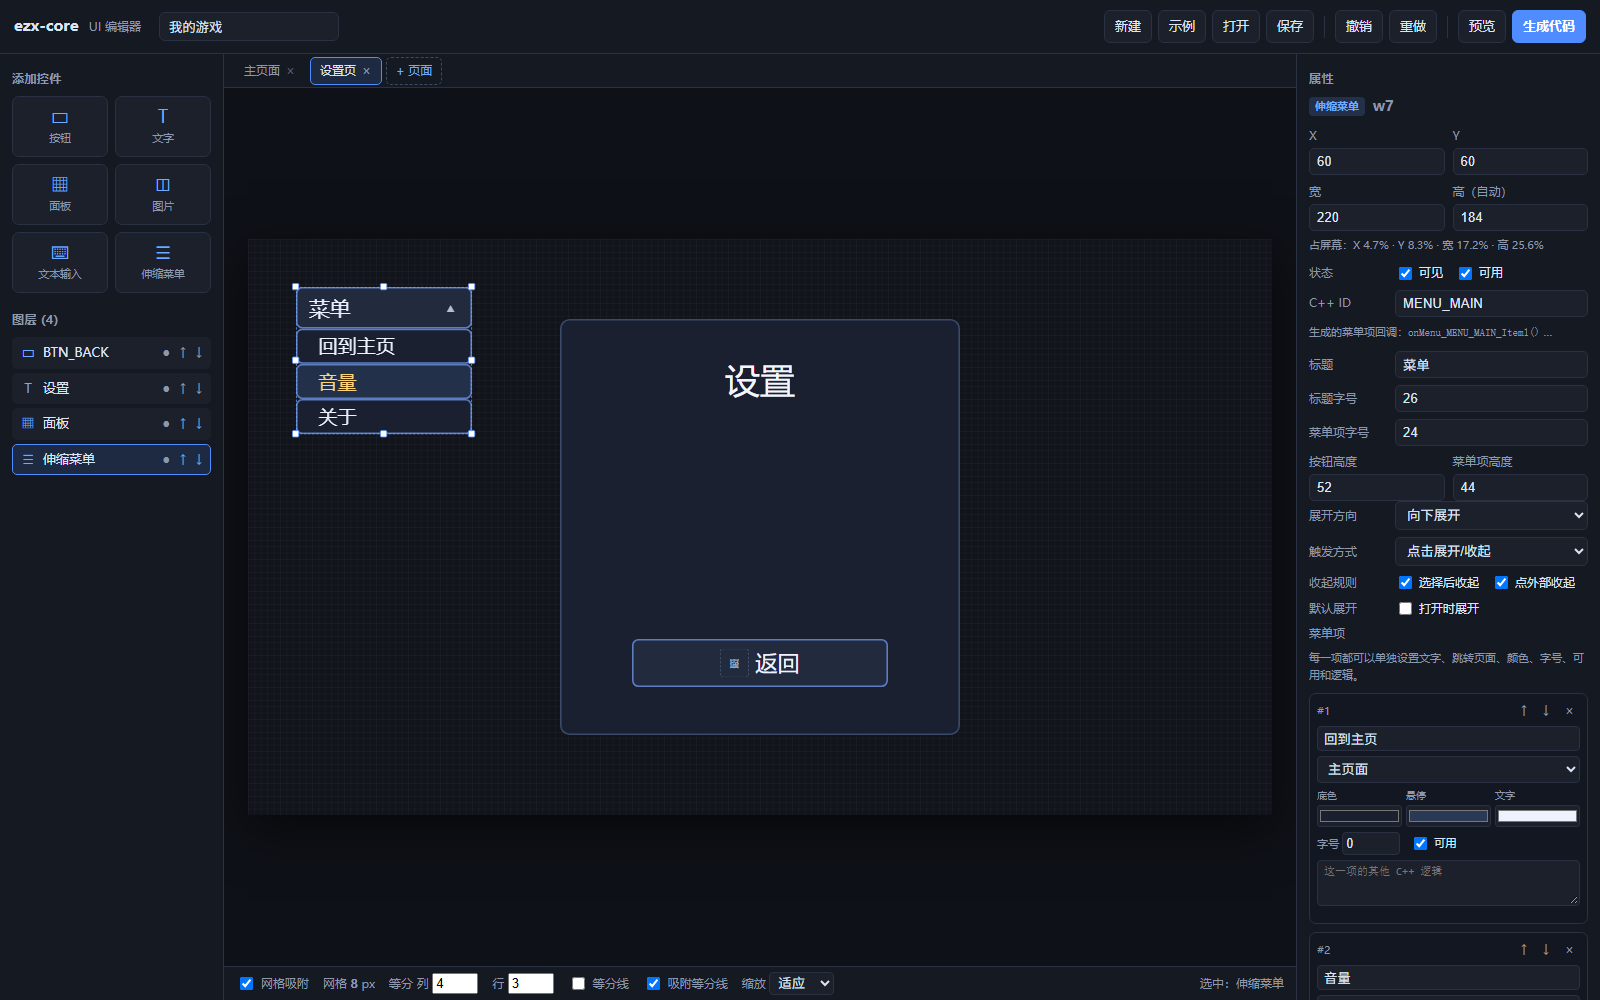
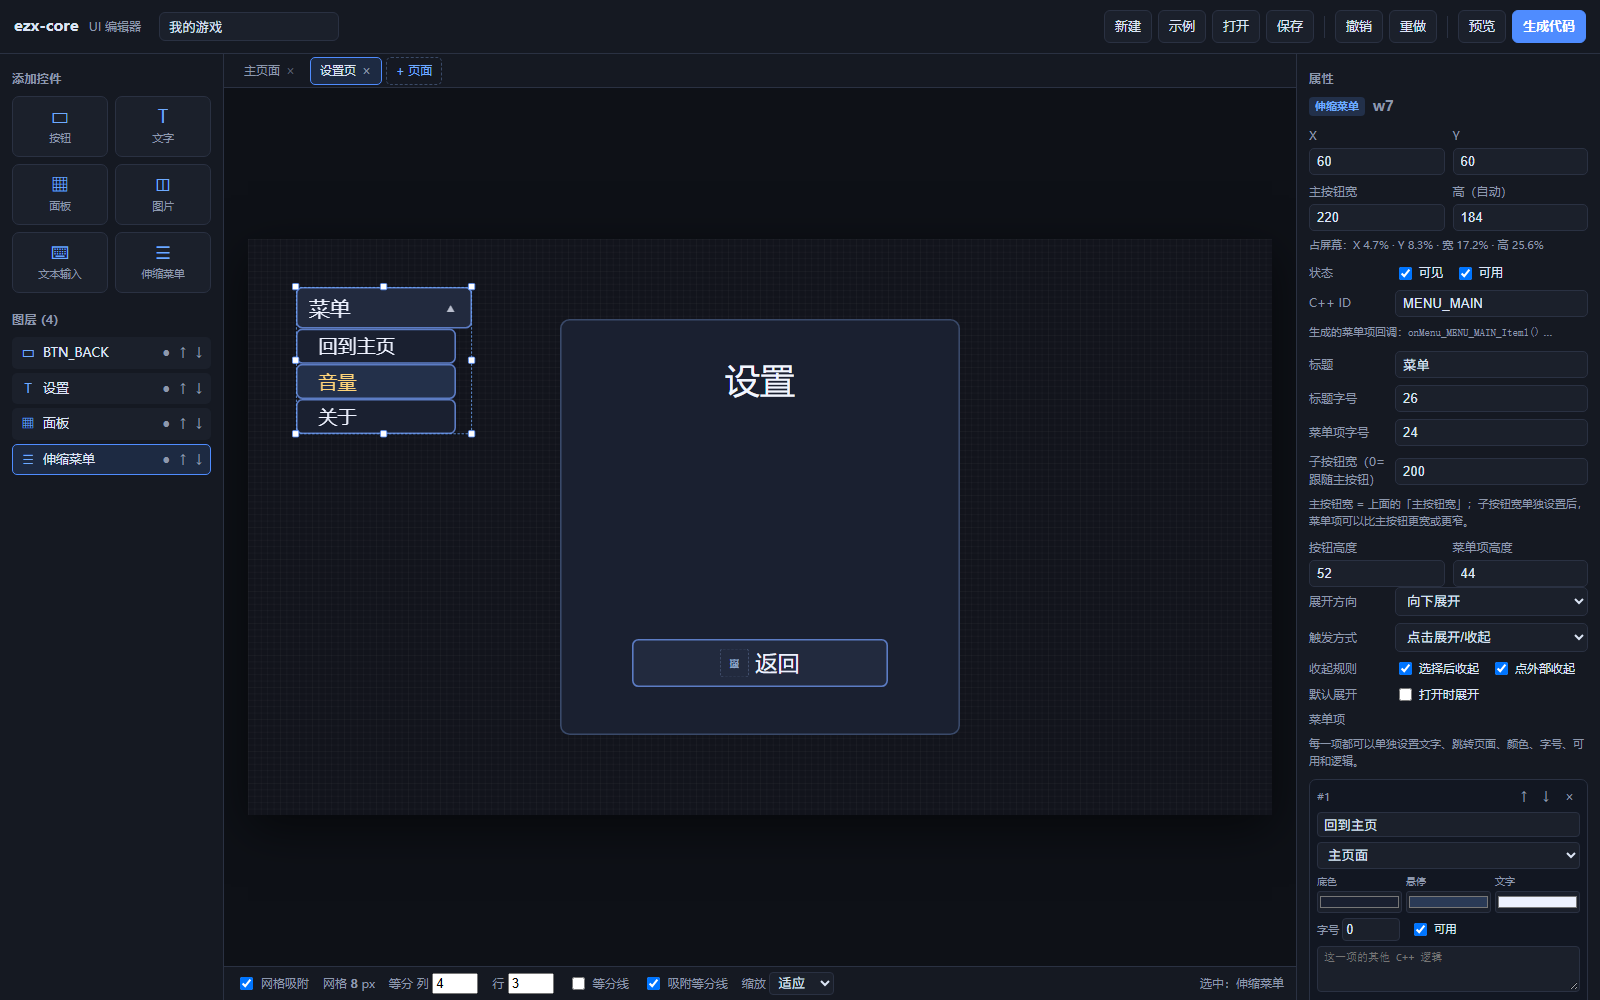
UI editor: fix property binding and separate menu item width

diff --git a/editor/ui_editor.html b/editor/ui_editor.html
@@ -470,6 +470,7 @@ function defaults(type) {
   });
   if (type === 'menu') return Object.assign(base, {
     w: 280, h: 200, text: '菜单', fontSize: 26,
+    itemWidth: 0,
     headerHeight: 52, itemHeight: 44,
     itemFontSize: 24,
     items: [
@@ -543,6 +544,7 @@ function normalizeWidgets(list) {
       });
       w.headerHeight = clamp(Math.round(num(w.headerHeight, 52)), 24, 200);
       w.itemHeight = clamp(Math.round(num(w.itemHeight, 44)), 20, 160);
+      w.itemWidth = clamp(Math.round(num(w.itemWidth, 0)), 0, 1600);
       w.expandDir = ['down', 'up', 'left', 'right', 'fan'].includes(w.expandDir) ? w.expandDir : 'down';
       w.trigger = w.trigger === 'hover' ? 'hover' : 'click';
       w.closeOnSelect = w.closeOnSelect !== false;
@@ -618,7 +620,7 @@ function sampleProject() {
       {
         key: 'p2', id: 'SETTINGS', name: '设置页',
         widgets: [
-          { type: 'menu', id: 'MENU_MAIN', x: 60, y: 60, w: 220, text: '菜单', defaultOpen: false, items: [
+          { type: 'menu', id: 'MENU_MAIN', x: 60, y: 60, w: 220, itemWidth: 200, text: '菜单', defaultOpen: false, items: [
             { text: '回到主页', target: 'p1' },
             { text: '音量', itemBg: '#23304a', textColor: '#ffd479' },
             { text: '关于' }
@@ -1061,12 +1063,12 @@ function renderStage() {
         item.className = 'menu-item';
         item.dataset.menuPart = 'item';
         item.dataset.index = i;
+        item.style.width = menuItemWidth(w) + 'px';
         if (!vertical) {
           const pos = menuItemPos(w, i);
           item.style.position = 'absolute';
           item.style.left = (pos.x - w.x) + 'px';
           item.style.top = (pos.y - w.y) + 'px';
-          item.style.width = w.w + 'px';
         }
         item.style.height = (w.itemHeight || 44) + 'px';
         item.style.background = it.itemBg || w.itemBg || '#1a2030';
@@ -1350,7 +1352,7 @@ function renderProps() {
   html += `<div class="row2">
       ${numberField('X', 'x', w.x)}
       ${numberField('Y', 'y', w.y)}
-      ${numberField('宽', 'w', w.w, 8)}
+      ${w.type === 'menu' ? numberField('主按钮宽', 'w', w.w, 8) : numberField('宽', 'w', w.w, 8)}
       ${w.type === 'menu'
         ? `<div class="field"><label>高（自动）</label><input type="number" value="${w.h}" disabled></div>`
         : numberField('高', 'h', w.h, 8)}
@@ -1452,6 +1454,8 @@ function renderProps() {
     html += inputField('标题', 'text', w.text);
     html += numberField('标题字号', 'fontSize', w.fontSize, 8, 200);
     html += numberField('菜单项字号', 'itemFontSize', w.itemFontSize, 8, 200);
+    html += numberField('子按钮宽（0=跟随主按钮）', 'itemWidth', w.itemWidth, 0, 1600);
+    html += `<div class="hint">主按钮宽 = 上面的「主按钮宽」；子按钮宽单独设置后，菜单项可以比主按钮更宽或更窄。</div>`;
     html += `<div class="row2">
       ${numberField('按钮高度', 'headerHeight', w.headerHeight, 24, 200)}
       ${numberField('菜单项高度', 'itemHeight', w.itemHeight, 20, 160)}
@@ -1510,6 +1514,8 @@ function renderProps() {
       <button class="btn danger" data-action="del">删除</button>
     </div>`;
   box.innerHTML = html;
+  box.querySelectorAll('[data-prop],[data-item-prop],[data-action],[data-item-action],[data-file]')
+    .forEach(el => { el.dataset.wuid = w.uid; });
 }
 
 /* ------------------------------- 拖拽/缩放 ------------------------------- */
@@ -1643,6 +1649,7 @@ function syncMenuHeight(w) {
   }));
   w.headerHeight = clamp(Math.round(num(w.headerHeight, 52)), 24, 200);
   w.itemHeight = clamp(Math.round(num(w.itemHeight, 44)), 20, 160);
+  w.itemWidth = clamp(Math.round(num(w.itemWidth, 0)), 0, 1600);
   w.expandDir = ['down', 'up', 'left', 'right', 'fan'].includes(w.expandDir) ? w.expandDir : 'down';
   w.trigger = w.trigger === 'hover' ? 'hover' : 'click';
   w.closeOnSelect = w.closeOnSelect !== false;
@@ -1658,23 +1665,28 @@ function menuHeaderPos(w) {
   return { x: w.x, y, w: w.w, h: w.headerHeight };
 }
 
+function menuItemWidth(w) {
+  return w.itemWidth > 0 ? w.itemWidth : w.w;
+}
+
 function menuItemPos(w, i) {
   const n = (w.items || []).length;
-  if (w.expandDir === 'right') return { x: w.x + w.w, y: w.y + i * w.itemHeight, w: w.w, h: w.itemHeight };
-  if (w.expandDir === 'left') return { x: w.x - w.w, y: w.y + i * w.itemHeight, w: w.w, h: w.itemHeight };
+  const iw = menuItemWidth(w);
+  if (w.expandDir === 'right') return { x: w.x + w.w, y: w.y + i * w.itemHeight, w: iw, h: w.itemHeight };
+  if (w.expandDir === 'left') return { x: w.x - iw, y: w.y + i * w.itemHeight, w: iw, h: w.itemHeight };
   if (w.expandDir === 'fan') {
     const t = n <= 1 ? 0.5 : i / (n - 1);
     const a = (w.fanStart + (w.fanEnd - w.fanStart) * t) * Math.PI / 180;
     const cx = w.x + w.w / 2;
     const cy = w.y + w.headerHeight / 2;
     return {
-      x: cx + Math.cos(a) * w.fanRadius - w.w / 2,
+      x: cx + Math.cos(a) * w.fanRadius - iw / 2,
       y: cy + Math.sin(a) * w.fanRadius - w.itemHeight / 2,
-      w: w.w, h: w.itemHeight
+      w: iw, h: w.itemHeight
     };
   }
   const y = w.expandDir === 'up' ? w.y + i * w.itemHeight : w.y + w.headerHeight + i * w.itemHeight;
-  return { x: w.x, y, w: w.w, h: w.itemHeight };
+  return { x: w.x, y, w: iw, h: w.itemHeight };
 }
 
 function menuBounds(w) {
@@ -1721,7 +1733,7 @@ function applyCentering(w) {
 }
 
 function setWidgetProp(w, prop, value) {
-  if (['x','y','w','h','fontSize','itemFontSize','headerHeight','itemHeight','fanRadius','fanStart','fanEnd','maxLen','borderWidth','radius'].includes(prop)) {
+  if (['x','y','w','h','fontSize','itemFontSize','itemWidth','headerHeight','itemHeight','fanRadius','fanStart','fanEnd','maxLen','borderWidth','radius'].includes(prop)) {
     value = Math.round(num(value));
     if (prop === 'w' || prop === 'h') value = Math.max(8, value);
     if (prop === 'maxLen') value = clamp(value, 0, 500);
@@ -1735,7 +1747,8 @@ function setWidgetProp(w, prop, value) {
   w[prop] = value;
 }
 function applyMenuItemInput(el) {
-  const w = selected();
+  const ownerUid = el.dataset.wuid;
+  const w = ownerUid ? project.widgets.find(x => x.uid === ownerUid) : selected();
   if (!w || w.type !== 'menu') return;
   const idx = Number(el.dataset.index);
   const it = w.items[idx];
@@ -1759,7 +1772,8 @@ function onPropInput(e) {
   if (!el) return;
   const prop = el.dataset.prop;
   let value = el.type === 'checkbox' ? el.checked : el.value;
-  const w = selected();
+  const ownerUid = el.dataset.wuid;
+  const w = ownerUid ? project.widgets.find(x => x.uid === ownerUid) : selected();
   historyPush();
   if (!w) {
     if (['name','designW','designH','bg','bgImage','bgFit','grid','layout','guideCols','guideRows','showGuides','snapGuides','pageName','pageId'].includes(prop)) {
@@ -1819,7 +1833,7 @@ function onPropInput(e) {
     return;
   }
   setWidgetProp(w, prop, value);
-  if (w.type === 'menu' && ['headerHeight', 'itemHeight', 'expandDir', 'fanRadius', 'fanStart', 'fanEnd'].includes(prop)) {
+  if (w.type === 'menu' && ['headerHeight', 'itemHeight', 'itemWidth', 'expandDir', 'fanRadius', 'fanStart', 'fanEnd'].includes(prop)) {
     syncMenuHeight(w);
     fitMenuToStage(w);
     if (prop === 'expandDir') renderProps();
@@ -2637,7 +2651,8 @@ function init() {
       if (fileKind === 'bg') {
         r.onload = () => { project.bgPreviewData = r.result; renderStage(); };
       } else {
-        const w = selected();
+        const ownerUid = e.target.dataset.wuid;
+        const w = ownerUid ? project.widgets.find(x => x.uid === ownerUid) : selected();
         if (!w) return;
         r.onload = () => {
           if (fileKind === 'icon') w.iconPreviewData = r.result;
@@ -2831,6 +2846,38 @@ function init() {
     applyCentering(testW);
     ok('自动居中', testW.x === Math.round((project.designW - testW.w) / 2) &&
       testW.y === Math.round((project.designH - testW.h) / 2));
+
+    const btnA = project.widgets.find(w => w.type === 'button' && w.id === 'BTN_START');
+    const btnB = project.widgets.find(w => w.type === 'button' && w.id === 'BTN_SETTINGS');
+    if (btnA && btnB) {
+      select(btnA.uid);
+      const pa = document.querySelector('#props [data-prop="text"]');
+      ok('属性绑定到 A', !!pa && pa.dataset.wuid === btnA.uid);
+      const oldText = btnA.text;
+      pa.value = '__A__';
+      pa.dispatchEvent(new Event('input', { bubbles: true }));
+      ok('只更新 A 的文字', btnA.text === '__A__' && btnB.text !== '__A__');
+      select(btnB.uid);
+      const pb = document.querySelector('#props [data-prop="text"]');
+      ok('切换后绑定到 B', !!pb && pb.dataset.wuid === btnB.uid);
+      btnA.text = oldText;
+    } else {
+      ok('属性绑定到 A', false);
+      ok('只更新 A 的文字', false);
+      ok('切换后绑定到 B', false);
+    }
+
+    const menuWTest = project.pages[1] && project.pages[1].widgets.find(w => w.type === 'menu');
+    if (menuWTest) {
+      const oldWidth = menuWTest.itemWidth;
+      menuWTest.itemWidth = 180;
+      syncMenuHeight(menuWTest);
+      ok('菜单子按钮单独宽度', menuItemPos(menuWTest, 0).w === 180);
+      menuWTest.itemWidth = oldWidth;
+      syncMenuHeight(menuWTest);
+    } else {
+      ok('菜单子按钮单独宽度', false);
+    }
 
     const bgw = project.widgets.find(w => w.type === 'panel') || project.widgets.find(w => w.type === 'button');
     if (bgw) {

diff --git a/editor/example-generated.cpp b/editor/example-generated.cpp
@@ -228,19 +228,19 @@ namespace ui {
             if (in.clicked() && !pctRect(vp, 0.0469, 0.0833, 0.1719, 0.2556).contains(m)) g_p1_menu_1_open = false;
             if (g_p1_menu_1_open)
             {
-                if (in.clicked() && pctRect(vp, 0.0469, 0.1556, 0.1719, 0.0611).contains(m))
+                if (in.clicked() && pctRect(vp, 0.0469, 0.1556, 0.1563, 0.0611).contains(m))
                 {
                     onMenu_SETTINGS_MENU_MAIN_Item1();
                     g_p1_menu_1_open = false;
                     return;
                 }
-                if (in.clicked() && pctRect(vp, 0.0469, 0.2167, 0.1719, 0.0611).contains(m))
+                if (in.clicked() && pctRect(vp, 0.0469, 0.2167, 0.1563, 0.0611).contains(m))
                 {
                     onMenu_SETTINGS_MENU_MAIN_Item2();
                     g_p1_menu_1_open = false;
                     return;
                 }
-                if (in.clicked() && pctRect(vp, 0.0469, 0.2778, 0.1719, 0.0611).contains(m))
+                if (in.clicked() && pctRect(vp, 0.0469, 0.2778, 0.1563, 0.0611).contains(m))
                 {
                     onMenu_SETTINGS_MENU_MAIN_Item3();
                     g_p1_menu_1_open = false;
@@ -335,17 +335,17 @@ namespace ui {
         }
             if (g_p1_menu_1_open)
             {
-                const Rect r0 = pctRect(vp, 0.0469, 0.1556, 0.1719, 0.0611);
+                const Rect r0 = pctRect(vp, 0.0469, 0.1556, 0.1563, 0.0611);
                 const bool h0 = r0.contains(m);
                 fillRound(r0, 8, h0 ? RGB(42, 58, 86) : RGB(26, 32, 48));
                 frameRound(r0, 8, 2, RGB(92, 124, 196));
                 vp.textIn(r0.inset(14), "回到主页", 24, RGB(238, 242, 255), Align::Left);
-                const Rect r1 = pctRect(vp, 0.0469, 0.2167, 0.1719, 0.0611);
+                const Rect r1 = pctRect(vp, 0.0469, 0.2167, 0.1563, 0.0611);
                 const bool h1 = r1.contains(m);
                 fillRound(r1, 8, h1 ? RGB(42, 58, 86) : RGB(35, 48, 74));
                 frameRound(r1, 8, 2, RGB(92, 124, 196));
                 vp.textIn(r1.inset(14), "音量", 24, RGB(255, 212, 121), Align::Left);
-                const Rect r2 = pctRect(vp, 0.0469, 0.2778, 0.1719, 0.0611);
+                const Rect r2 = pctRect(vp, 0.0469, 0.2778, 0.1563, 0.0611);
                 const bool h2 = r2.contains(m);
                 fillRound(r2, 8, h2 ? RGB(42, 58, 86) : RGB(26, 32, 48));
                 frameRound(r2, 8, 2, RGB(92, 124, 196));

diff --git a/editor/README.md b/editor/README.md
@@ -176,6 +176,9 @@ vp.imageCover(g_bg, pctRect(vp, 0, 0, 1, 1));
 左侧「伸缩菜单」添加一个可展开/收起的菜单：
 
 - 「标题」：菜单按钮上显示的文字；
+- **主按钮宽**（通用「宽」字段）和 **子按钮宽**分开设置：
+  - 子按钮宽填 0 = 跟随主按钮；
+  - 填具体数值 = 菜单项单独宽度，可以和主按钮不一样；
 - 「按钮高度」「菜单项高度」；
 - **展开方向**：向下 / 向上 / 向左 / 向右 / 扇形；
 - **触发方式**：点击展开收起 / 鼠标悬停展开；
